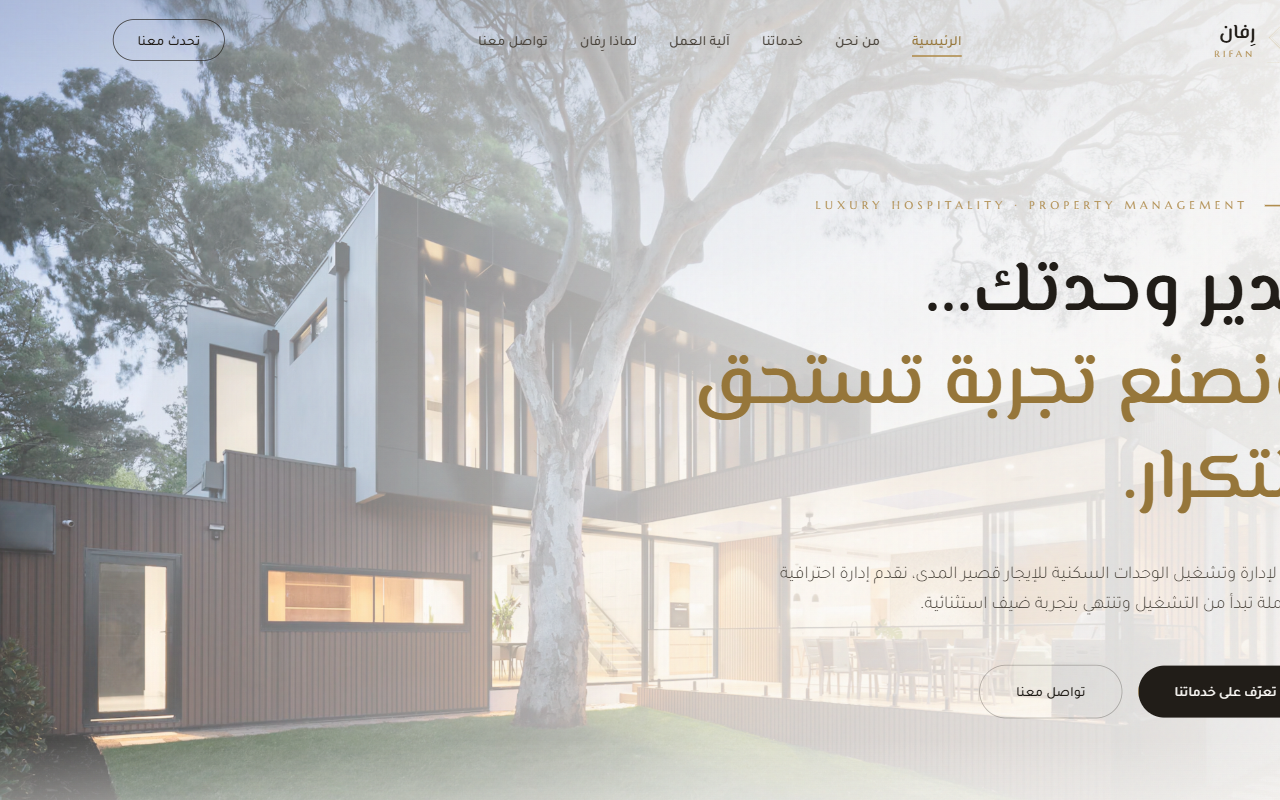
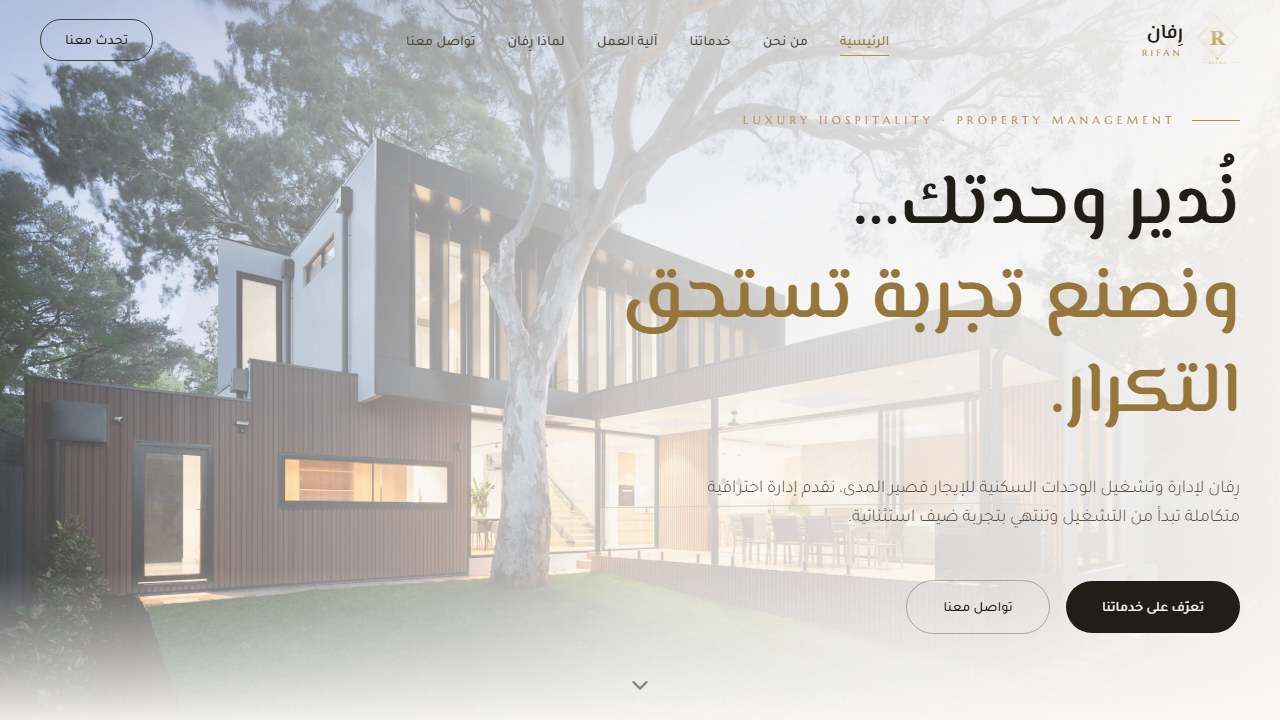
one-page redesign: remove almahous, better crops, exact 16:9 shots

diff --git a/index.html b/index.html
@@ -3,7 +3,7 @@
 <head>
 <meta charset="UTF-8">
 <meta name="viewport" content="width=device-width, initial-scale=1.0">
-<title>معرض الأعمال | أنظمة ومواقع جاهزة للعرض</title>
+<title>معرض الأعمال | أنظمة ومواقع</title>
 <link rel="preconnect" href="https://fonts.googleapis.com">
 <link rel="preconnect" href="https://fonts.gstatic.com" crossorigin>
 <link href="https://fonts.googleapis.com/css2?family=Tajawal:wght@300;400;500;700;800&family=Marcellus&display=swap" rel="stylesheet">
@@ -14,95 +14,113 @@
   --grad:linear-gradient(120deg,#9a7a3a,#e6cd8f 45%,#c9a45c 70%,#8a6c33);
 }
 *{margin:0;padding:0;box-sizing:border-box}
-body{background:var(--ink);color:var(--ivory);font-family:'Tajawal',sans-serif;font-weight:400;line-height:1.8;-webkit-font-smoothing:antialiased}
+html,body{background:var(--ink)}
+body{color:var(--ivory);font-family:'Tajawal',sans-serif;font-weight:400;line-height:1.7;-webkit-font-smoothing:antialiased}
 a{color:inherit;text-decoration:none}
 .kicker{font-family:'Marcellus',serif;letter-spacing:.4em;font-size:.66rem;color:var(--gold)}
-header{padding:clamp(3rem,7vw,5.5rem) clamp(1.25rem,5vw,4rem) 2.5rem;max-width:1180px;margin:0 auto}
-header h1{font-size:clamp(2rem,4.5vw,3.2rem);font-weight:800;margin:1rem 0 .6rem}
+
+.page{max-width:1080px;margin:0 auto;padding:clamp(2rem,5vw,3.6rem) clamp(1.25rem,4vw,3rem) 2.5rem}
+
+/* ---------- header ---------- */
+header{display:flex;justify-content:space-between;align-items:flex-end;gap:1.5rem;padding-bottom:1.6rem;border-bottom:1px solid var(--line);margin-bottom:2rem}
+header h1{font-size:clamp(1.7rem,3.8vw,2.5rem);font-weight:800;margin-top:.7rem}
 header h1 span{background:var(--grad);-webkit-background-clip:text;background-clip:text;color:transparent}
-header p{color:var(--muted);max-width:620px;font-size:1.02rem}
-.grid{display:grid;grid-template-columns:repeat(2,1fr);gap:1.4rem;max-width:1180px;margin:0 auto;padding:0 clamp(1.25rem,5vw,4rem) 4rem}
-@media(max-width:760px){.grid{grid-template-columns:1fr}}
-.card{position:relative;background:linear-gradient(165deg,var(--panel),var(--ink2));border:1px solid var(--line);border-radius:10px;overflow:hidden;transition:transform .4s,border-color .4s;break-inside:avoid}
-.card:hover{transform:translateY(-6px);border-color:rgba(201,164,92,.5)}
-.card .shot{position:relative;aspect-ratio:16/9;overflow:hidden;border-bottom:1px solid var(--line)}
-.card .shot img{width:100%;height:100%;object-fit:cover;object-position:top center;display:block;filter:saturate(1.05)}
-.card .shot::after{content:"";position:absolute;inset:0;background:linear-gradient(180deg,transparent 55%,rgba(10,13,18,.85))}
-.card .shot .tag{position:absolute;top:12px;inset-inline-start:12px;z-index:2;font-size:.62rem;letter-spacing:.05em;color:var(--gold2);border:1px solid rgba(201,164,92,.4);background:rgba(10,13,18,.72);padding:.22rem .75rem;border-radius:99px}
-.card .body{padding:1.3rem 1.4rem 1.5rem}
-.card h3{font-size:1.2rem;font-weight:700;margin-bottom:.3rem}
-.card h3 small{font-family:'Marcellus',serif;font-size:.62rem;letter-spacing:.28em;color:var(--gold);display:block;margin-bottom:.35rem;font-weight:400}
-.card p{font-size:.86rem;color:var(--muted);margin-bottom:1rem}
-.visit{display:inline-flex;align-items:center;gap:.55rem;font-size:.82rem;font-weight:500;color:var(--gold2);border:1px solid rgba(201,164,92,.35);padding:.5rem 1.2rem;border-radius:99px;transition:.3s}
+header p{color:var(--muted);font-size:.9rem;max-width:420px}
+.hbrand{font-family:'Marcellus',serif;letter-spacing:.3em;font-size:.72rem;color:var(--gold2);border:1px solid var(--line);padding:.45rem 1rem;border-radius:99px;white-space:nowrap}
+@media(max-width:640px){header{flex-direction:column;align-items:flex-start}}
+
+/* ---------- grid: 2 featured + 3 systems ---------- */
+.grid{display:grid;grid-template-columns:repeat(6,1fr);gap:1.2rem}
+.card{position:relative;background:linear-gradient(165deg,var(--panel),var(--ink2));border:1px solid var(--line);border-radius:10px;overflow:hidden;transition:transform .4s,border-color .4s}
+.card:hover{transform:translateY(-5px);border-color:rgba(201,164,92,.5)}
+.card.f{grid-column:span 3}
+.card.s{grid-column:span 2}
+@media(max-width:760px){.card.f,.card.s{grid-column:span 6}}
+.shot{position:relative;aspect-ratio:16/9;overflow:hidden;border-bottom:1px solid var(--line);background:#0c1017}
+.shot img{width:100%;height:100%;object-fit:cover;object-position:top center;display:block}
+.shot::after{content:"";position:absolute;inset:0;background:linear-gradient(180deg,transparent 60%,rgba(10,13,18,.75))}
+.shot .tag{position:absolute;top:10px;inset-inline-start:10px;z-index:2;font-size:.6rem;letter-spacing:.04em;color:var(--gold2);border:1px solid rgba(201,164,92,.4);background:rgba(10,13,18,.75);padding:.18rem .7rem;border-radius:99px}
+.body{padding:1rem 1.15rem 1.15rem}
+.body h3{font-size:1.02rem;font-weight:700}
+.body h3 small{font-family:'Marcellus',serif;font-size:.56rem;letter-spacing:.26em;color:var(--gold);display:block;margin-bottom:.25rem;font-weight:400}
+.body p{font-size:.78rem;color:var(--muted);margin:.35rem 0 .8rem}
+.visit{display:inline-flex;align-items:center;gap:.5rem;font-size:.74rem;font-weight:500;color:var(--gold2);border:1px solid rgba(201,164,92,.35);padding:.4rem 1rem;border-radius:99px}
 .visit:hover{background:rgba(201,164,92,.12)}
 .visit .arr{font-family:'Marcellus',serif}
-footer{border-top:1px solid var(--line);text-align:center;padding:2.2rem;color:var(--muted);font-size:.74rem}
+
+footer{display:flex;justify-content:space-between;align-items:center;margin-top:2rem;padding-top:1.4rem;border-top:1px solid var(--line);font-size:.7rem;color:var(--muted)}
 footer b{color:var(--gold);font-family:'Marcellus',serif;letter-spacing:.3em;font-weight:400}
+
+/* ---------- single-page print ---------- */
+@page{size:A4 portrait;margin:0}
 @media print{
-  body{background:#fff;color:#111}
-  .card{border:1px solid #ccc;background:#fff}
-  .card h3{color:#111}.card p{color:#444}
-  .card .shot::after{background:linear-gradient(180deg,transparent 70%,rgba(255,255,255,.4))}
-  .visit{color:#7a5f28;border-color:#c9a45c}
-  header h1 span{color:#7a5f28!important;-webkit-text-fill-color:#7a5f28}
-  .kicker{color:#7a5f28}
-  .card{break-inside:avoid;page-break-inside:avoid}
+  html,body{background:#0a0d12}
+  .page{max-width:none;width:210mm;padding:10mm 12mm}
+  header h1{font-size:9mm} header p{font-size:3.2mm}
+  .grid{gap:4mm}
+  .body h3{font-size:3.8mm}.body h3 small{font-size:2mm}
+  .body p{font-size:2.9mm;line-height:1.6}
+  .visit{font-size:2.8mm;padding:1.6mm 4mm}
+  .shot .tag{font-size:2.2mm}
+  footer{font-size:2.6mm}
+  .card{page-break-inside:avoid;break-inside:avoid}
 }
 </style>
 </head>
 <body>
+<div class="page">
 
-<header>
-  <span class="kicker">PORTFOLIO — قائمة الأعمال</span>
-  <h1>أنظمة ومواقع <span>جاهزة للمعاينة بضغطة واحدة</span></h1>
-  <p>مجموعة مشاريع متكاملة: من أنظمة تشغيل للمكاتب والشركات، إلى مواقع وواجهات خدمة. كل بطاقة تفتح المشروع مباشرة.</p>
-</header>
+  <header>
+    <div>
+      <span class="kicker">PORTFOLIO — قائمة الأعمال</span>
+      <h1>أنظمة ومواقع <span>جاهزة للمعاينة</span></h1>
+      <p>خمسة مشاريع متكاملة بين أنظمة تشغيل ومواقع خدمة — كل بطاقة تفتح المشروع مباشرة بضغطة واحدة.</p>
+    </div>
+    <span class="hbrand">IK&nbsp;DESIGN</span>
+  </header>
 
-<div class="grid">
-  <a class="card" href="https://ikhalidfd-design.github.io/almahous-profile/">
-    <div class="shot"><span class="tag">نظام تشغيل عقاري</span><img src="img/almahous.png" alt="المهوس"></div>
-    <div class="body"><h3><small>ALMAHOUS OS</small>المهوس — نظام تشغيل الأعمال العقارية</h3>
-    <p>منظومة متكاملة تدير العقارات والعملاء والتسويق والصفقات والعمولات، مع تكاملات موثقة وذكاء اصطناعي. البروفايل التفاعلي الكامل متاح بالضغط.</p>
-    <span class="visit">فتح المشروع <span class="arr">←</span></span></div>
-  </a>
+  <div class="grid">
+    <a class="card f" href="https://ikhalidfd-design.github.io/rivan/">
+      <div class="shot"><span class="tag">موقع + نظام حجوزات</span><img src="img/rivan.png" alt="ريفان"></div>
+      <div class="body"><h3><small>RIFAN</small>رِفان — إدارة الإيجار قصير المدى</h3>
+      <p>موقع فاخر لإدارة وتشغيل الوحدات السكنية المفروشة: حجوزات، تسعير ديناميكي، وتنظيف وصيانة.</p>
+      <span class="visit">فتح الموقع <span class="arr">←</span></span></div>
+    </a>
 
-  <a class="card" href="https://ikhalidfd-design.github.io/portfolio/systems/aamal.html">
-    <div class="shot"><span class="tag">نظام ERP</span><img src="img/aamal-1.png" alt="نظام أعمال"></div>
-    <div class="body"><h3><small>AAMAL ERP</small>نظام أعمال — الإدارة المالية والتمويل</h3>
-    <p>نظام لإدارة التمويل والعملاء والمستندات والكفالات، بلوحات تحكم وتقارير. الصفحة التعريفية بالصور متاحة بالضغط.</p>
-    <span class="visit">فتح المشروع <span class="arr">←</span></span></div>
-  </a>
+    <a class="card f" href="https://ikhalidfd-design.github.io/sumua/">
+      <div class="shot"><span class="tag">نظام SaaS</span><img src="img/sumua.png" alt="سمعة"></div>
+      <div class="body"><h3><small>SUMUA</small>سُمعة — سمعتك الرقمية مؤتمتة</h3>
+      <p>نظام يدير تقييمات النشاط التجاري على خرائط جوجل آليًا، مع لوحة تحكم وردود جاهزة.</p>
+      <span class="visit">فتح الموقع <span class="arr">←</span></span></div>
+    </a>
 
-  <a class="card" href="https://ikhalidfd-design.github.io/portfolio/systems/muhkam.html">
-    <div class="shot"><span class="tag">منصة خدمات</span><img src="img/muhkam-1.png" alt="محكم"></div>
-    <div class="body"><h3><small>MUHKAM</small>مُحكم — منصة خدمات الأعمال</h3>
-    <p>منصة سعودية ثنائية اللغة لخدمات الأعمال والأفراد، بواجهات متجاوبة وهوية متكاملة. معاينة الواجهات متاحة بالضغط.</p>
-    <span class="visit">فتح المشروع <span class="arr">←</span></span></div>
-  </a>
+    <a class="card s" href="https://ikhalidfd-design.github.io/portfolio/systems/aamal.html">
+      <div class="shot"><span class="tag">نظام ERP</span><img src="img/card-aamal.png" alt="نظام أعمال"></div>
+      <div class="body"><h3><small>AAMAL</small>نظام أعمال المالي</h3>
+      <p>إدارة التمويل والعملاء والمستندات والكفالات بلوحات تحكم وتقارير.</p>
+      <span class="visit">فتح العرض <span class="arr">←</span></span></div>
+    </a>
 
-  <a class="card" href="https://ikhalidfd-design.github.io/portfolio/systems/ons.html">
-    <div class="shot"><span class="tag">منصة مناسبات</span><img src="img/ons-1.png" alt="أنس"></div>
-    <div class="body"><h3><small>ONS</small>أُنس — منصة تجهيز المناسبات</h3>
-    <p>منصة لإدارة تجهيز المناسبات من الطلب حتى التنفيذ، مع موقع تعريفي وحملات تسويقية. معاينة الواجهات متاحة بالضغط.</p>
-    <span class="visit">فتح المشروع <span class="arr">←</span></span></div>
-  </a>
+    <a class="card s" href="https://ikhalidfd-design.github.io/portfolio/systems/muhkam.html">
+      <div class="shot"><span class="tag">منصة خدمات</span><img src="img/card-muhkam.jpg" alt="محكم"></div>
+      <div class="body"><h3><small>MUHKAM</small>مُحكم — خدمات الأعمال</h3>
+      <p>منصة سعودية ثنائية اللغة تجمع خدمات الأعمال والأفراد في مكان واحد.</p>
+      <span class="visit">فتح العرض <span class="arr">←</span></span></div>
+    </a>
 
-  <a class="card" href="https://ikhalidfd-design.github.io/rivan/">
-    <div class="shot"><span class="tag">موقع + نظام حجوزات</span><img src="img/rivan.png" alt="ريفان"></div>
-    <div class="body"><h3><small>RIFAN</small>رِفان — إدارة الإيجار قصير المدى</h3>
-    <p>موقع تعريفي فاخر لإدارة وتشغيل الوحدات السكنية المفروشة: حجوزات، تسعير، وتنظيف وصيانة. الموقع الحي متاح بالضغط.</p>
-    <span class="visit">فتح المشروع <span class="arr">←</span></span></div>
-  </a>
+    <a class="card s" href="https://ikhalidfd-design.github.io/portfolio/systems/ons.html">
+      <div class="shot"><span class="tag">منصة مناسبات</span><img src="img/card-ons.png" alt="أنس" style="filter:brightness(1.18) contrast(1.02)"></div>
+      <div class="body"><h3><small>ONS</small>أُنس — تجهيز المناسبات</h3>
+      <p>منصة تدير المناسبة من الطلب حتى التنفيذ، مع موقع تعريفي وحملات.</p>
+      <span class="visit">فتح العرض <span class="arr">←</span></span></div>
+    </a>
+  </div>
 
-  <a class="card" href="https://ikhalidfd-design.github.io/sumua/">
-    <div class="shot"><span class="tag">نظام SaaS</span><img src="img/sumua.png" alt="سمعة"></div>
-    <div class="body"><h3><small>SUMUA</small>سُمعة — سمعتك الرقمية مؤتمتة</h3>
-    <p>نظام لإدارة تقييمات وسمعة النشاط التجاري على خرائط جوجل بشكل مؤتمت، مع لوحة تحكم تجريبية. متاح بالضغط.</p>
-    <span class="visit">فتح المشروع <span class="arr">←</span></span></div>
-  </a>
+  <footer>
+    <b>PORTFOLIO 2026</b>
+    <span>جميع المشاريع قابلة للتخصيص والعرض الحي حسب الطلب</span>
+  </footer>
+
 </div>
-
-<footer><b>PORTFOLIO</b><br>جميع المشاريع قابلة للعرض الحي والتخصيص حسب الطلب</footer>
-
 </body>
 </html>
